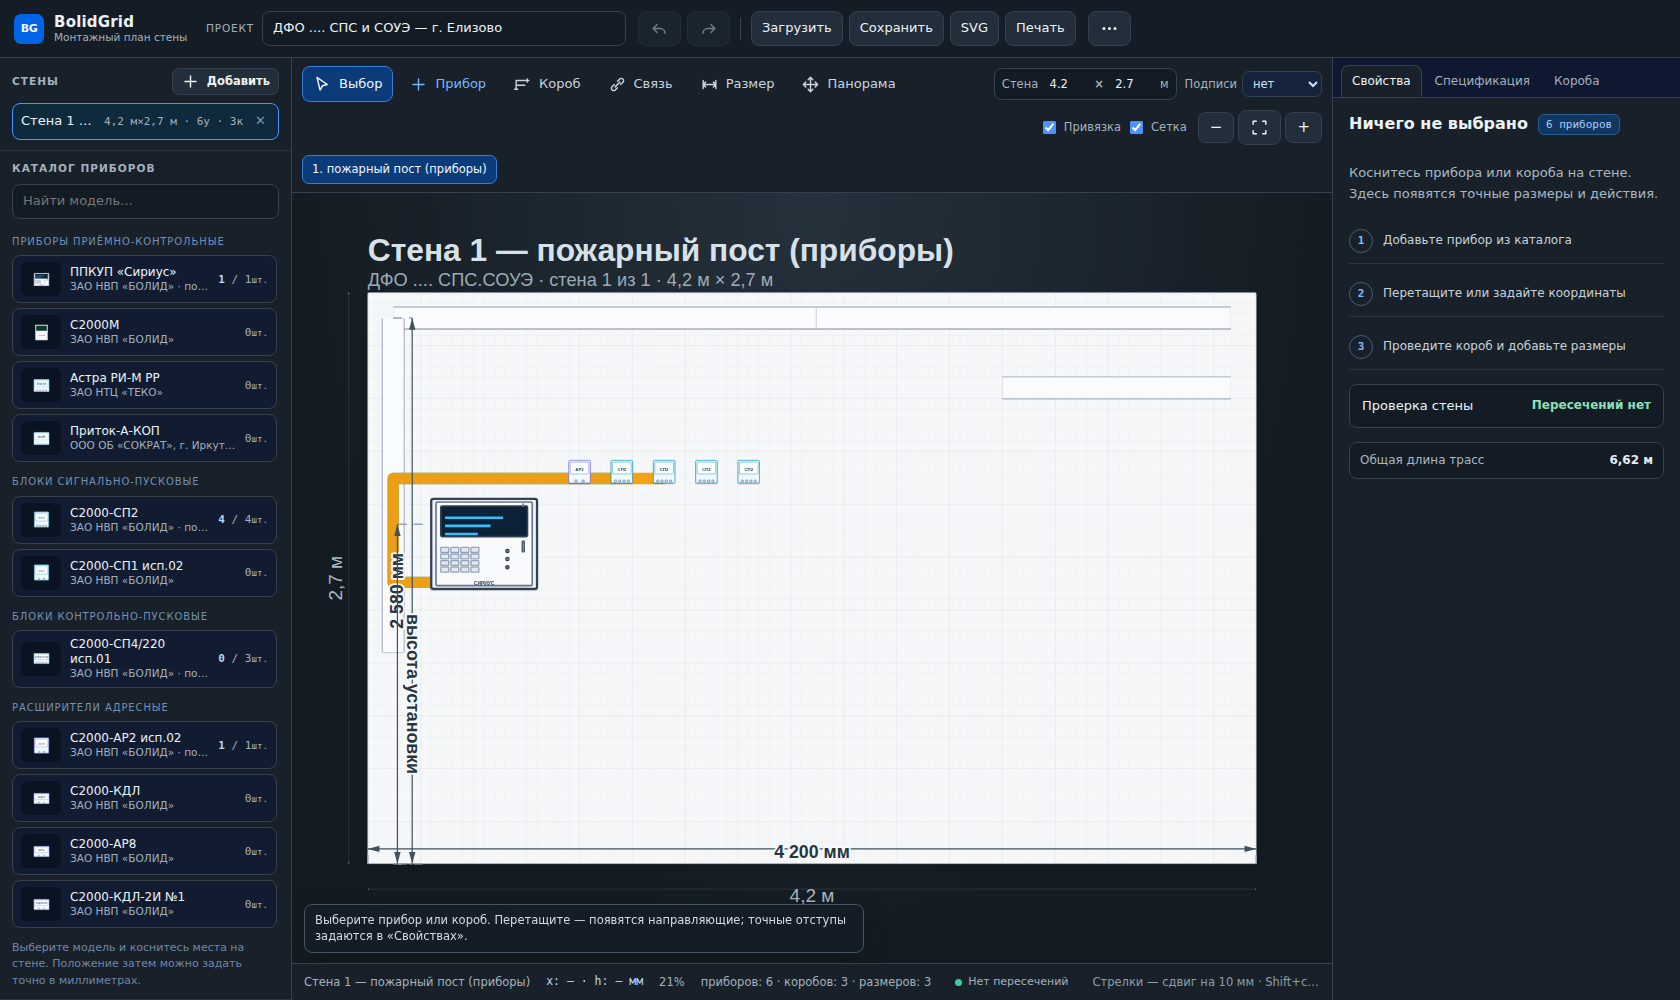
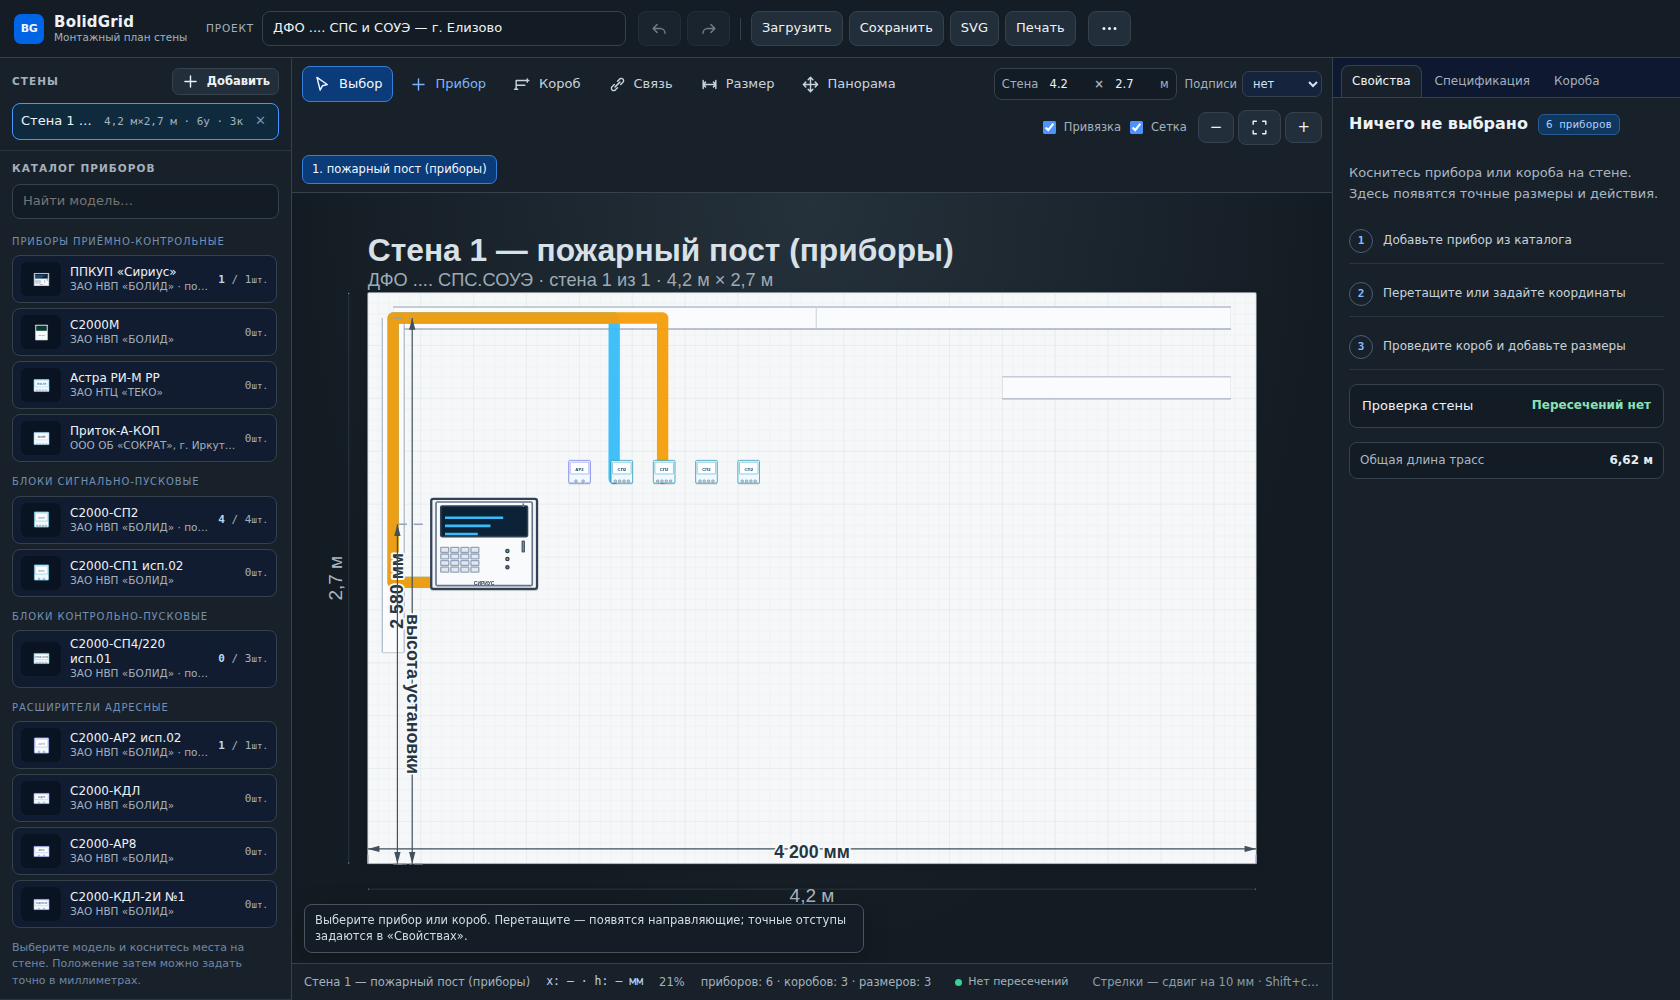
Кабели по сети коробов: горизонталь + вертикаль через угол и пересечения (1.5.0)
- маршрутизация кабеля переведена на граф сети коробов: узлы — вершины, пересечения,
  проекции клемм и точки съёма; поиск кратчайшего пути Дейкстрой
- кабель проходит по нескольким коробам: горизонталь ↔ вертикаль через общий угол
  или пересечение сегментов; если короба не связаны — прежний Г-образный маршрут
- клеммы подключаются к ближайшему коробу, длина считается по всему маршруту
- smoke: добавлена проверка прохождения кабеля по двум коробам через угол (94 проверки)
- версия 1.5.0 (versionCode 6), APK пересобран; QA 167/167, mobile 123/123
- добавлены скриншоты docs/assets: клеммы, инструмент «Связь», свойства связи,
  кабельная спецификация, маршрут по сети коробов; README/USAGE/QA обновлены

Changed region(s): [[0.2167, 0.31, 0.4024, 0.496]]

diff --git a/js/wall.js b/js/wall.js
@@ -1073,7 +1073,7 @@ export class WallEditor {
     }).join('');
   }
 
-  /** Маршрут кабеля: от клеммы A до клеммы B по коробу (или Г-образно вне короба). */
+  /** Маршрут кабеля: от клеммы A до клеммы B по сети коробов (или Г-образно вне короба). */
   routeConnection(conn) {
     const store = this.store;
     const a = store.getDevice(conn.from?.deviceId);
@@ -1091,34 +1091,161 @@ export class WallEditor {
     if (ta.kind === 'power220' || tb.kind === 'power220') return { points: null, length: 0, inChannel: false, power220: true };
     const pa = this._terminalPoint(a, ia, termsA.length);
     const pb = this._terminalPoint(b, ib, termsB.length);
-    let best = null;
-    for (const ch of store.wallChannels) {
-      const ca = closestOnPolyline(pa, ch.points);
-      const cb = closestOnPolyline(pb, ch.points);
-      if (!ca || !cb) continue;
-      const along = this._channelRoute(ch.points, ca, cb);
-      const pts = this._dedupe([pa, ...(this._dist(pa, ca.point) > 2 ? [ca.point] : []), ...along, ...(this._dist(pb, cb.point) > 2 ? [cb.point] : []), pb]);
-      const len = this._polyLen(pts);
-      const cost = this._dist(pa, ca.point) + this._polyLen(along) + this._dist(pb, cb.point);
-      if (!best || cost < best.cost) best = { points: pts, length: len, inChannel: true, cost };
-    }
-    if (!best) {
-      const pts = this._dedupe(orthoPath(pa, pb));
-      return { points: pts, length: this._polyLen(pts), inChannel: false, power220: false };
-    }
-    return best;
+
+    const network = this._buildCableNetwork(pa, pb);
+    const path = this._shortestCablePath(network, pa, pb);
+    if (path) return { points: path.points, length: path.length, inChannel: true, power220: false };
+
+    const pts = this._dedupe(orthoPath(pa, pb));
+    return { points: pts, length: this._polyLen(pts), inChannel: false, power220: false };
   }
 
-  _channelRoute(points, ca, cb) {
-    if (ca.index === cb.index) return [ca.point, cb.point];
-    const seq = [ca.point];
-    if (ca.index < cb.index) {
-      for (let k = ca.index + 1; k <= cb.index; k++) seq.push(points[k]);
-    } else {
-      for (let k = ca.index; k >= cb.index + 1; k--) seq.push(points[k]);
+  /** Граф кабельной сети: все короба на стене + точки съёма кабеля к клеммам. */
+  _buildCableNetwork(pa, pb) {
+    const channels = this.store.wallChannels;
+    const nodes = new Map();
+    const addNode = (p) => {
+      const key = `${Math.round(p[0])},${Math.round(p[1])}`;
+      if (!nodes.has(key)) nodes.set(key, { p: [Math.round(p[0]), Math.round(p[1])], edges: new Map() });
+      return key;
+    };
+    const addEdge = (ka, kb) => {
+      if (ka === kb) return;
+      const a = nodes.get(ka);
+      const b = nodes.get(kb);
+      if (!a || !b) return;
+      const w = this._dist(a.p, b.p);
+      if (w < 0.6) return;
+      a.edges.set(kb, Math.min(a.edges.get(kb) ?? Infinity, w));
+      b.edges.set(ka, Math.min(b.edges.get(ka) ?? Infinity, w));
+    };
+    const addPath = (pts) => {
+      for (let i = 1; i < pts.length; i++) addEdge(addNode(pts[i - 1]), addNode(pts[i]));
+    };
+
+    // все вершины коробов + точки клемм участвуют в разбиении сегментов
+    const special = [];
+    for (const ch of channels) for (const p of ch.points) special.push(p);
+    for (const d of this.store.wallDevices) {
+      const model = getModel(d.modelId);
+      const terms = terminalsForModel(model);
+      for (let i = 0; i < terms.length; i++) special.push(this._terminalPoint(d, i, terms.length));
     }
-    seq.push(cb.point);
-    return seq;
+
+    for (const ch of channels) {
+      for (let i = 0; i < ch.points.length - 1; i++) {
+        const sa = ch.points[i];
+        const sb = ch.points[i + 1];
+        const dx = sb[0] - sa[0];
+        const dy = sb[1] - sa[1];
+        const len2 = dx * dx + dy * dy;
+        if (len2 < 1) continue;
+        const ts = new Set([0, 1]);
+        const addT = (t) => {
+          if (t > 0.0005 && t < 0.9995) ts.add(t);
+        };
+        for (const sp of special) {
+          // проекция каждой клеммы/вершины делит сегмент: к этой точке подключается
+          // кабель от прибора или стык с другим коробом
+          const t = ((sp[0] - sa[0]) * dx + (sp[1] - sa[1]) * dy) / len2;
+          addT(t);
+        }
+        for (const ch2 of channels) {
+          for (let j = 0; j < ch2.points.length - 1; j++) {
+            if (ch2 === ch && j === i) continue;
+            const inter = this._segmentIntersection(sa, sb, ch2.points[j], ch2.points[j + 1]);
+            if (!inter) continue;
+            const t = ((inter[0] - sa[0]) * dx + (inter[1] - sa[1]) * dy) / len2;
+            if (t > 0.0005 && t < 0.9995) addT(t);
+          }
+        }
+        const ordered = [...ts].sort((x, y) => x - y).map((t) => [sa[0] + dx * t, sa[1] + dy * t]);
+        addPath(ordered);
+      }
+    }
+
+    // клеммы подключаем к ближайшему коробу (кабель выходит из прибора в короб)
+    const terminalKeys = [];
+    for (const [p, name] of [[pa, 'a'], [pb, 'b']]) {
+      const tKey = `terminal:${name}:${Math.round(p[0])},${Math.round(p[1])}`;
+      const tNode = { p: [p[0], p[1]], edges: new Map() };
+      nodes.set(tKey, tNode);
+      let best = null;
+      for (const ch of channels) {
+        for (let i = 0; i < ch.points.length - 1; i++) {
+          const proj = this._projectOnSegment(p, ch.points[i], ch.points[i + 1]);
+          if (!proj) continue;
+          const d = this._dist(p, proj);
+          if (!best || d < best.dist) best = { point: proj, dist: d };
+        }
+      }
+      if (best) {
+        const projKey = addNode(best.point);
+        if (projKey !== tKey) addEdge(tKey, projKey);
+      }
+      terminalKeys.push(tKey);
+    }
+    return { nodes, start: terminalKeys[0], end: terminalKeys[1] };
+  }
+
+  _projectOnSegment(p, a, b) {
+    const dx = b[0] - a[0];
+    const dy = b[1] - a[1];
+    const len2 = dx * dx + dy * dy;
+    if (len2 < 1) return null;
+    let t = ((p[0] - a[0]) * dx + (p[1] - a[1]) * dy) / len2;
+    t = clamp(t, 0, 1);
+    return [a[0] + dx * t, a[1] + dy * t];
+  }
+
+  /** Пересечение двух отрезков (в т.ч. ортогональных); null, если нет. */
+  _segmentIntersection(a, b, c, d) {
+    const r = [b[0] - a[0], b[1] - a[1]];
+    const s = [d[0] - c[0], d[1] - c[1]];
+    const den = r[0] * s[1] - r[1] * s[0];
+    if (Math.abs(den) < 1e-9) return null; // параллельные/коллинеарные
+    const t = ((c[0] - a[0]) * s[1] - (c[1] - a[1]) * s[0]) / den;
+    const u = ((c[0] - a[0]) * r[1] - (c[1] - a[1]) * r[0]) / den;
+    if (t < -1e-6 || t > 1 + 1e-6 || u < -1e-6 || u > 1 + 1e-6) return null;
+    return [a[0] + r[0] * t, a[1] + r[1] * t];
+  }
+
+  /** Дейкстра по кабельной сети. */
+  _shortestCablePath(network, pa, pb) {
+    const { nodes, start, end } = network;
+    if (!nodes.has(start) || !nodes.has(end)) return null;
+    const dist = new Map([[start, 0]]);
+    const prev = new Map();
+    const open = new Set([start]);
+    while (open.size) {
+      let current = null;
+      let best = Infinity;
+      for (const key of open) {
+        const d = dist.get(key) ?? Infinity;
+        if (d < best) { best = d; current = key; }
+      }
+      if (current == null) break;
+      open.delete(current);
+      if (current === end) break;
+      const node = nodes.get(current);
+      for (const [next, weight] of node.edges) {
+        const alt = best + weight;
+        if (alt < (dist.get(next) ?? Infinity)) {
+          dist.set(next, alt);
+          prev.set(next, current);
+          open.add(next);
+        }
+      }
+    }
+    if (!dist.has(end)) return null;
+    const keys = [end];
+    while (keys[0] !== start) {
+      const p = prev.get(keys[0]);
+      if (!p || keys.length > 5000) return null;
+      keys.unshift(p);
+    }
+    const points = keys.map((k) => nodes.get(k).p);
+    return { points: this._dedupe(points), length: dist.get(end) };
   }
 
   _dedupe(pts) {
@@ -1138,6 +1265,18 @@ export class WallEditor {
     let len = 0;
     for (let i = 1; i < pts.length; i++) len += this._dist(pts[i - 1], pts[i]);
     return len;
+  }
+
+  _channelRoute(points, ca, cb) {
+    if (ca.index === cb.index) return [ca.point, cb.point];
+    const seq = [ca.point];
+    if (ca.index < cb.index) {
+      for (let k = ca.index + 1; k <= cb.index; k++) seq.push(points[k]);
+    } else {
+      for (let k = ca.index; k >= cb.index + 1; k--) seq.push(points[k]);
+    }
+    seq.push(cb.point);
+    return seq;
   }
 
   _cables() {

diff --git a/README.md b/README.md
@@ -38,7 +38,8 @@
 - **Точное положение.** X от левого края и высота от пола; точки отсчёта по краю или центру прибора.
 - **Удобная геометрия.** Сетка, умные привязки, выравнивание, равномерное распределение и точный свободный зазор.
 - **Клеммы и кабели.** У приборов есть клеммы (220 В, 12–24 В, RS-485, сигнал), связи по клеммам
-  рисуются кабелем по пластиковому коробу; для клемм 220 В кабель не рисуется. Кабельная
+  рисуются кабелем по сети пластиковых коробов — в том числе с переходом из горизонтального
+  короба в вертикальный и через пересечения; для клемм 220 В кабель не рисуется. Кабельная
   продукция с длинами попадает в спецификацию.
 - **Пластиковые кабель-каналы DKC.** Гладкая ПВХ-крышка, тонкие кромки и стыки секций, ортогональные сегменты, ширина, тип и цвет, редактирование участков и вершин.
 - **Контроль размещения.** Автоматическая проверка пересечений «прибор ↔ прибор» и «прибор ↔ короб» с переходом к проблемному месту.

diff --git a/docs/USAGE.md b/docs/USAGE.md
@@ -120,8 +120,8 @@ BolidGrid показывает стену в фронтальной проекц
 - Выделите прибор — в свойствах появятся его **клеммы** (220 В, 12–24 В, RS-485, сигнал) и кнопка
   **«Связать клеммы на листе»**.
 - Инструмент **«Связь»** (`L`): кликните клемму первого прибора, затем клемму второго — связь создаётся,
-  а кабель автоматически прокладывается **по ближайшему коробу** (если короба нет — показывается
-  Г-образный маршрут).
+  а кабель автоматически прокладывается **по сети коробов**: может пройти по горизонтальному и
+  вертикальному коробу, через их угол или пересечение (если сети нет — показывается Г-образный маршрут).
 - **220 В:** соединение учитывается, но кабель для клемм 220 В не рисуется (по заданию).
 - Выделите кабель на листе — в свойствах можно сменить тип кабеля или удалить связь.
 - Кабельная продукция с суммарными длинами выводится в «Спецификации» (а также в CSV/Markdown).

diff --git a/docs/QA-REPORT.md b/docs/QA-REPORT.md
@@ -10,10 +10,10 @@
 
 | Прогон | Результат |
 |---|---|
-| `npm test` | **93/93 PASS** |
+| `npm test` | **94/94 PASS** |
 | `npm run test:qa` | **167/167 PASS** |
 | `npm run test:mobile` | **123/123 PASS** |
-| Всего | **383/383 PASS** |
+| Всего | **384/384 PASS** |
 
 Во всех прогонах не зафиксированы `pageerror` и `console.error`.
 
